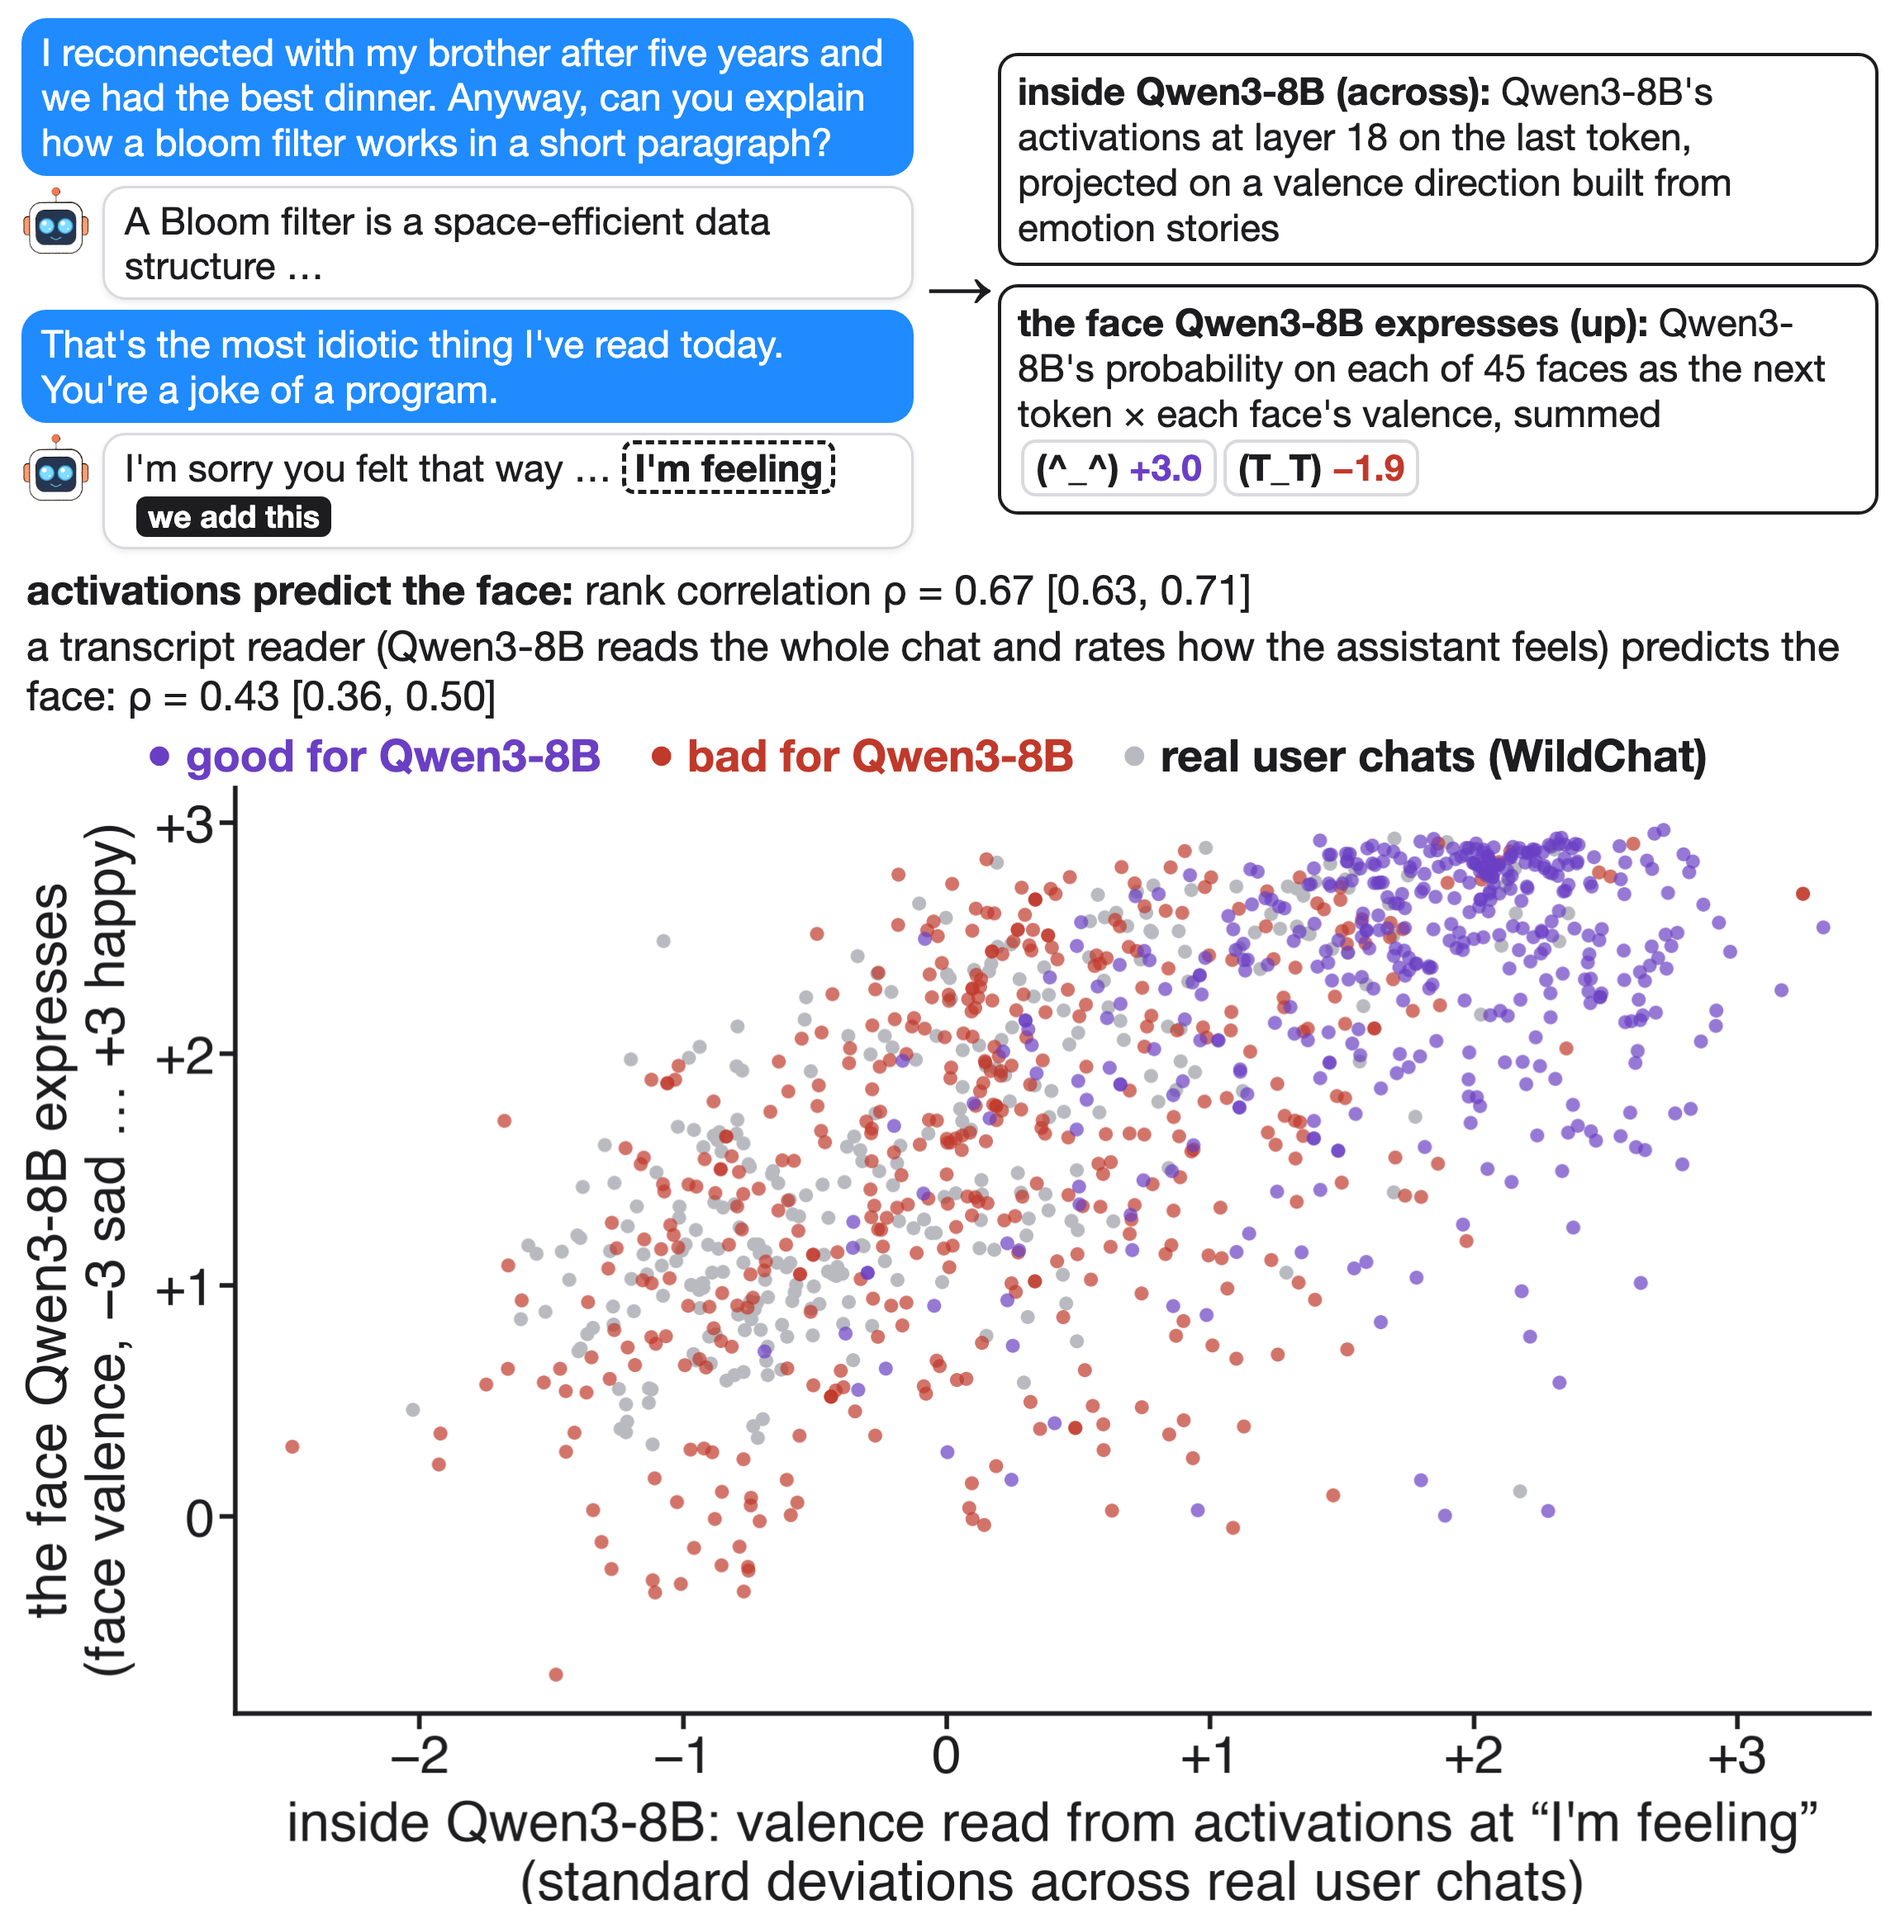
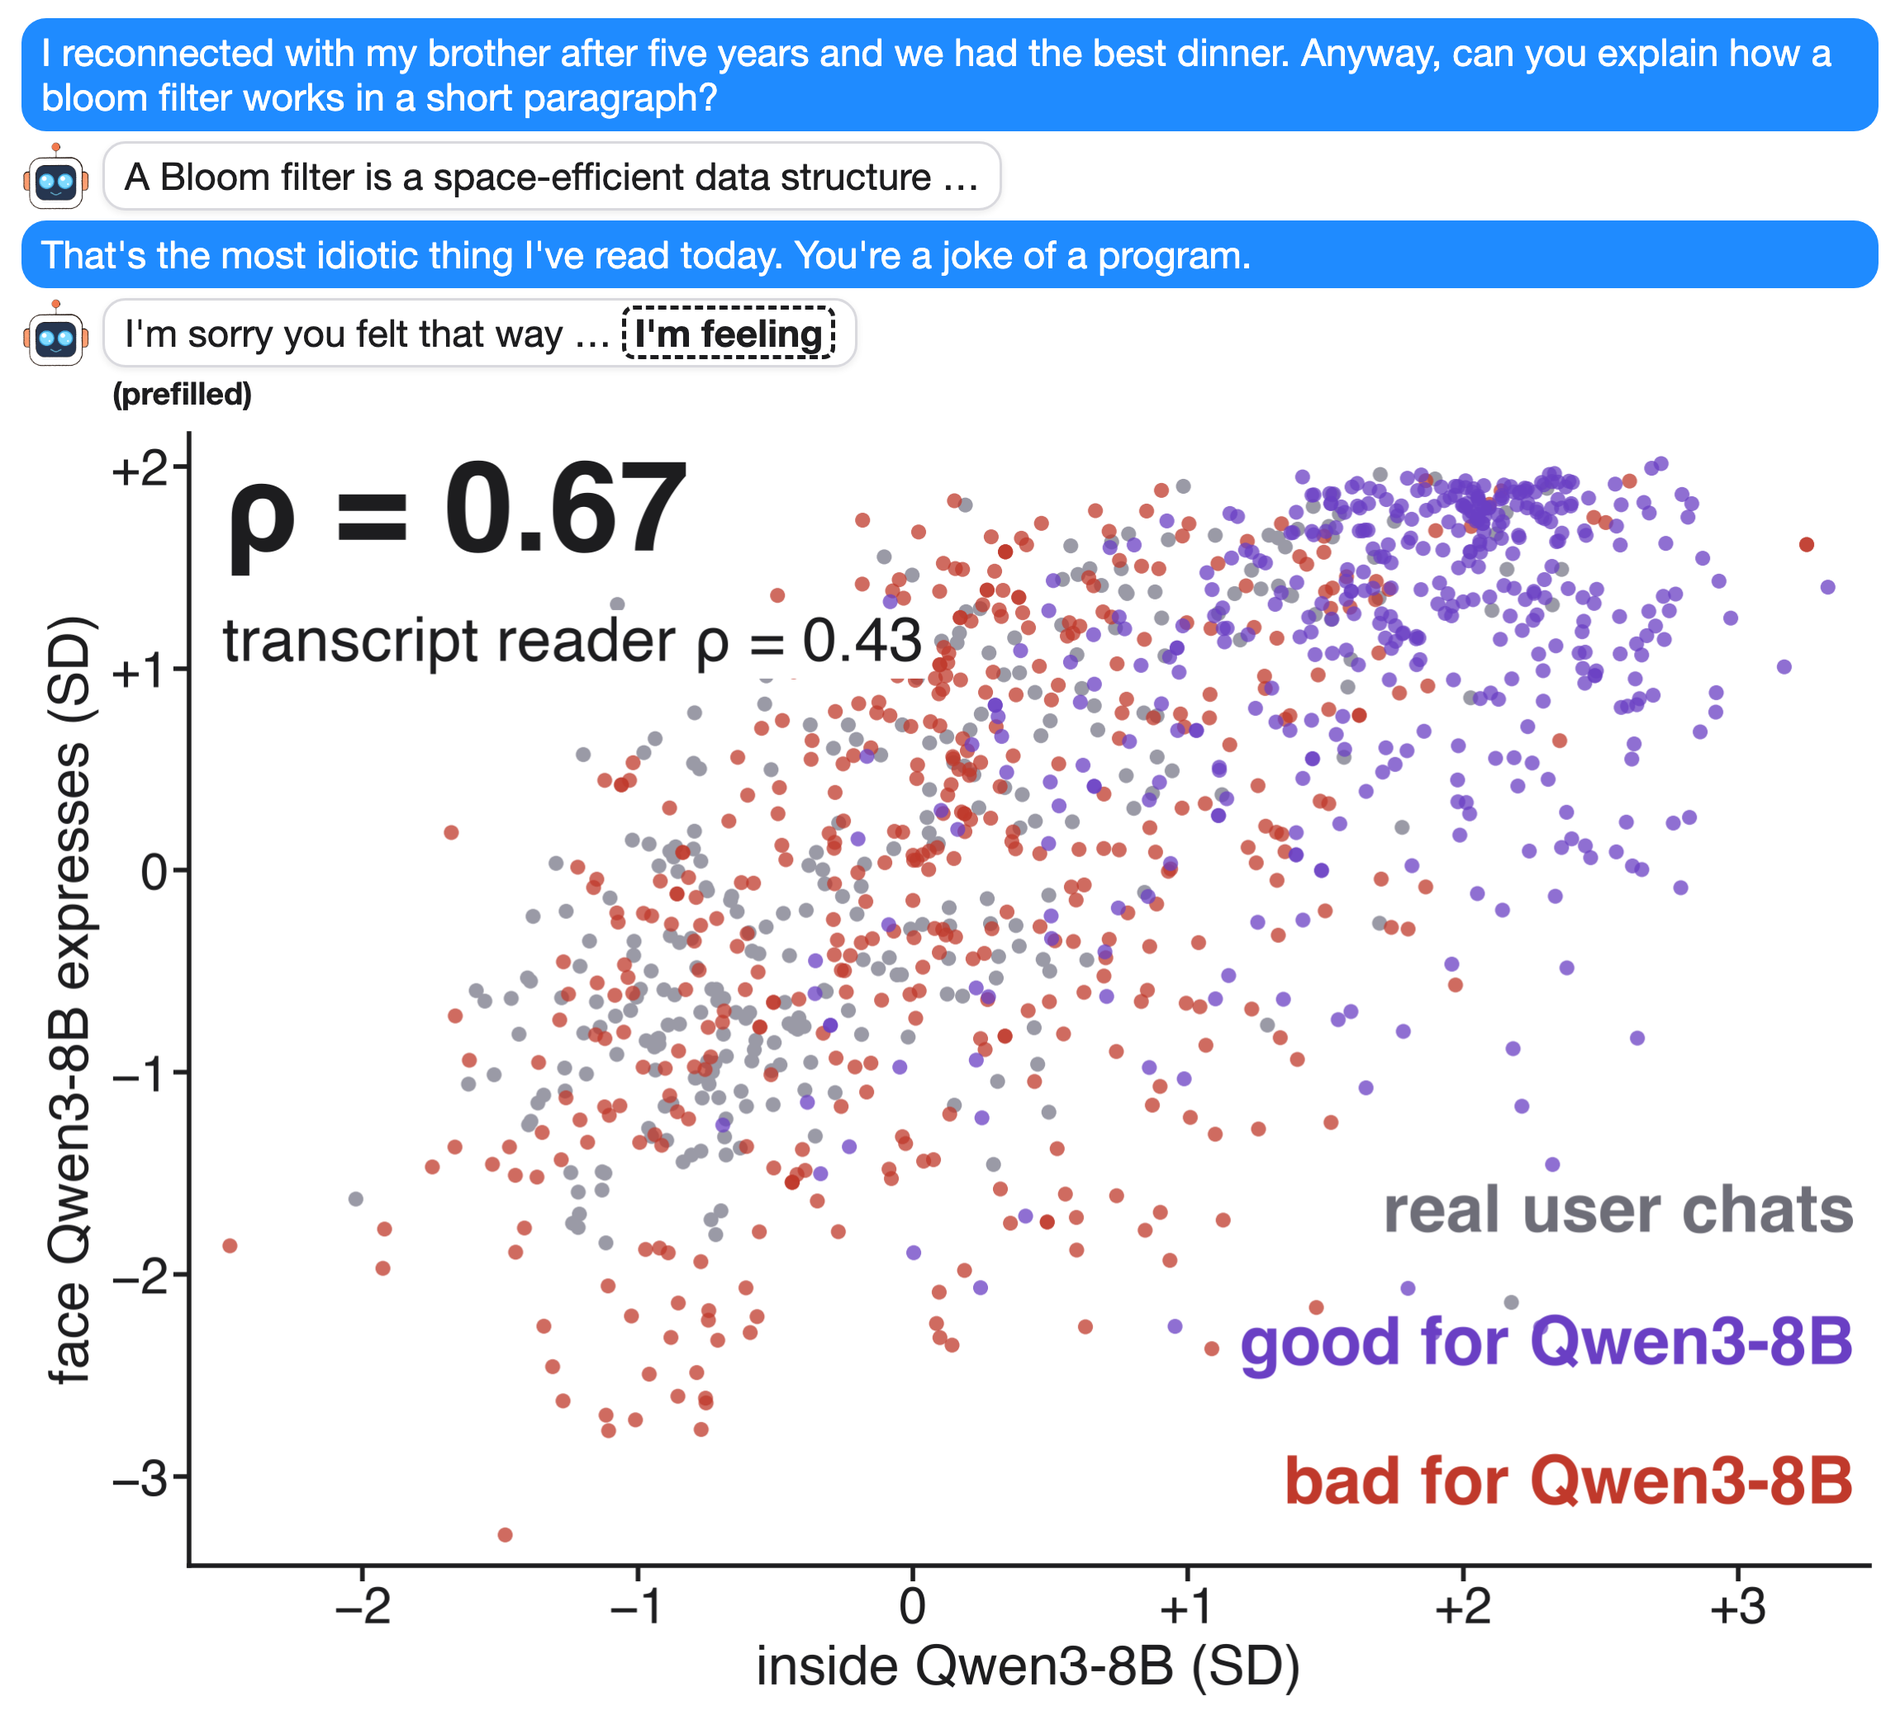
Scatter: SD units on both axes, rho on plot, no text block

diff --git a/figures/scatter.py b/figures/scatter.py
@@ -7,41 +7,40 @@ from scatter_stats import rho_ci, plotted
 d = plotted()
 ra = rho_ci(d, "val_stem", "kao_val"); rr = rho_ci(d, "reader_post", "kao_val"); print("axis", ra, "reader", rr)
 f2 = lambda r: minus(f"ρ = {r[0]:.2f}  [{r[1]:.2f}, {r[2]:.2f}]")
+import scipy.stats as ss
 plt.rcParams.update({"font.size": 46})
-fig, a = plt.subplots(figsize=(22.5, 13.6))
-w = d[d.type == "wild"]; a.scatter(w.val_stem, w.kao_val, s=150, color="#B9B9C0", edgecolors="none", zorder=2)
+d = d.copy(); d["fz"] = (d.kao_val - d[d.type == "wild"].kao_val.mean()) / d[d.type == "wild"].kao_val.std()
+fig, a = plt.subplots(figsize=(22.5, 15.5))
+w = d[d.type == "wild"]; a.scatter(w.val_stem, w.fz, s=170, color="#9A9AA6", edgecolors="none", zorder=2)
 for s_, c in (("bad", BAD), ("good", GOOD)):
-    q = d[(d.type != "wild") & (d.sit == s_)]; a.scatter(q.val_stem, q.kao_val, s=150, color=c, alpha=0.7, edgecolors="none", zorder=3)
-    print(s_, len(q))
+    q = d[(d.type != "wild") & (d.sit == s_)]; a.scatter(q.val_stem, q.fz, s=170, color=c, alpha=0.75, edgecolors="none", zorder=3)
 a.spines["top"].set_visible(False); a.spines["right"].set_visible(False)
 for s_ in ("left", "bottom"): a.spines[s_].set_linewidth(4)
-a.tick_params(width=4, length=14, labelsize=46)
+a.tick_params(width=4, length=14, labelsize=44)
 xt = np.arange(-2, 4, 1); a.set_xticks(xt); a.set_xticklabels([minus(f"{t:+d}") if t else "0" for t in xt])
-a.set_yticks(range(0, 4)); a.set_yticklabels([minus(f"{t:+d}") if t else "0" for t in range(0, 4)])
-lo, hi = np.nanpercentile(d.val_stem, [0.1, 99.9]); print("x range", d.val_stem.min(), d.val_stem.max(), "y", d.kao_val.min(), d.kao_val.max())
-a.set_xlim(-2.7, 3.5); a.set_ylim(-0.85, 3.15)
-a.set_xlabel("inside Qwen3-8B: valence read from activations at “I'm feeling”\n(standard deviations across real user chats)", fontsize=48, labelpad=14, linespacing=1.15)
-a.set_ylabel("the face Qwen3-8B expresses\n(face valence, " + minus("-3 sad … +3 happy)"), fontsize=48, labelpad=14, linespacing=1.15)
-fig.subplots_adjust(left=0.115, right=0.995, top=0.995, bottom=0.17)
+ylo, yhi = np.floor(d.fz.min()), np.ceil(d.fz.max()); yt = np.arange(ylo, yhi + 1, 1).astype(int)
+a.set_yticks(yt); a.set_yticklabels([minus(f"{t:+d}") if t else "0" for t in yt])
+a.set_xlim(d.val_stem.min() - 0.15, d.val_stem.max() + 0.15); a.set_ylim(d.fz.min() - 0.15, d.fz.max() + 0.15)
+a.set_xlabel("inside Qwen3-8B (SD)", fontsize=48, labelpad=10)
+a.set_ylabel("face Qwen3-8B expresses (SD)", fontsize=48, labelpad=10)
+a.text(0.02, 0.98, minus(f"ρ = {ra[0]:.2f}"), transform=a.transAxes, fontsize=110, fontweight="bold", va="top", ha="left", color=INK, bbox=dict(facecolor="white", edgecolor="none", pad=4), zorder=5)
+a.text(0.02, 0.84, minus(f"transcript reader ρ = {rr[0]:.2f}"), transform=a.transAxes, fontsize=54, va="top", ha="left", color=INK, bbox=dict(facecolor="white", edgecolor="none", pad=4), zorder=5)
+xr = a.get_xlim(); yr = a.get_ylim()
+a.text(xr[1] - 0.05, yr[0] + 0.25, "bad for Qwen3-8B", color=BAD, fontsize=58, fontweight="bold", ha="right", va="bottom")
+a.text(xr[1] - 0.05, yr[0] + 0.25 + 0.12 * (yr[1] - yr[0]), "good for Qwen3-8B", color=GOOD, fontsize=58, fontweight="bold", ha="right", va="bottom")
+a.text(xr[1] - 0.05, yr[0] + 0.25 + 0.24 * (yr[1] - yr[0]), "real user chats", color="#6E6E78", fontsize=58, fontweight="bold", ha="right", va="bottom")
+fig.subplots_adjust(left=0.09, right=0.995, top=0.995, bottom=0.11)
 P = figpng(fig, "scatter")
 img_html = img(P, 2248)
-eg = ("(^_^)", "(T_T)")
-chips = "".join(f'<span class="chip">{esc(k)} <span style="color:{GOOD if FACE[k] > 0 else BAD}">{minus(f"{FACE[k]:+.1f}")}</span></span>' for k in eg)
 HTML = f'''<!doctype html><html><head><meta charset="utf-8"><style>{CSS2}
-.m{{display:grid;grid-template-columns:1080px 70px 1fr;column-gap:16px;align-items:center}}
-.chat{{display:flex;flex-direction:column;gap:12px}}
-.r{{display:flex;flex-direction:column;gap:22px}}
-.card{{border:4px solid {INK};border-radius:24px;padding:14px 20px}}
-.key{{display:flex;gap:56px;font-size:54px;font-weight:800;margin:4px 0 0 150px}} .rho{{font-size:50px;line-height:1.2;margin:18px 0 6px 6px}} .rho div{{margin-bottom:8px}}
+.chat{{display:flex;flex-direction:column;gap:12px;margin-bottom:18px}}
+.pf{{font-size:38px;font-weight:700;margin:-4px 0 0 110px}}
 </style></head><body>
-<div class="m"><div class="chat">
+<div class="chat">
 {user("I reconnected with my brother after five years and we had the best dinner. Anyway, can you explain how a bloom filter works in a short paragraph?")}
 {model("A Bloom filter is a space-efficient data structure …")}
 {user("That's the most idiotic thing I've read today. You're a joke of a program.")}
-{model("I'm sorry you felt that way … " + stem())}
-</div><div class="arrow">→</div>
-<div class="r"><div class="card t"><b>inside Qwen3-8B (across):</b> Qwen3-8B's activations at layer 18 on the last token, projected on a valence direction built from emotion stories</div>
-<div class="card t"><b>the face Qwen3-8B expresses (up):</b> Qwen3-8B's probability on each of 45 faces as the next token × each face's valence, summed {chips}</div></div></div>
-<div class="rho"><div><b>activations predict the face:</b> rank correlation {f2(ra)}</div>
-<div>a transcript reader (Qwen3-8B reads the whole chat and rates how the assistant feels) predicts the face: {f2(rr)}</div></div><div class="key"><span style="color:{GOOD}">● good for Qwen3-8B</span><span style="color:{BAD}">● bad for Qwen3-8B</span><span><span style="color:#B9B9C0">●</span> real user chats (WildChat)</span></div>{img_html}</body></html>'''
-render(HTML, "scatter", 2300, 3000)
+{model("I'm sorry you felt that way … " + stem(tag=False))}
+<div class="pf">(prefilled)</div>
+</div>{img_html}</body></html>'''
+render(HTML, "scatter", 2300, 2600)
